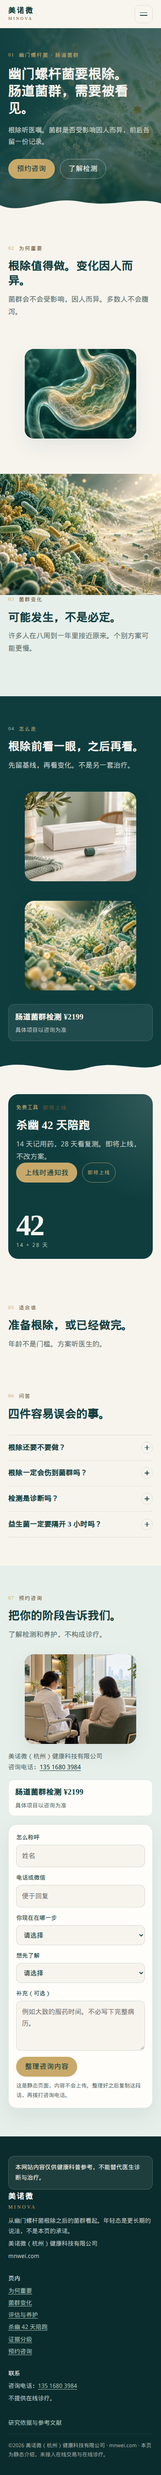
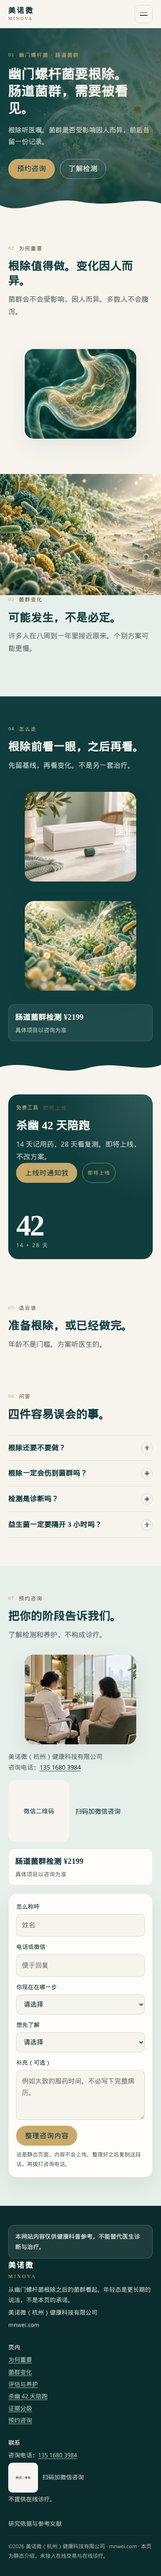
在咨询区和页脚放上微信二维码位。
图片路径固定为 assets/img/wechat-qr.jpg，仓库里先放一张象牙色占位图，打包时会检查它在压缩包里。

diff --git a/assets/css/site.css b/assets/css/site.css
@@ -937,29 +937,38 @@ h3 { font-size: 1.2rem; }
 @media (min-width: 900px) {
   .consult-grid { grid-template-columns: 0.9fr 1.1fr; gap: 2rem; align-items: start; }
 }
-.qr-row {
+.qr-block {
   display: flex;
-  gap: 0.9rem;
   align-items: center;
-  margin-top: 1.1rem;
+  gap: 0.9rem;
+  margin: 1.1rem 0 0;
 }
-.qr {
-  width: 132px;
-  height: 132px;
+.qr-block img {
+  width: 148px;
+  height: 148px;
   flex: none;
   border-radius: 16px;
-  border: 1px dashed rgba(110, 84, 48, 0.55);
-  background:
-    repeating-linear-gradient(90deg, rgba(15, 61, 62, 0.05) 0 1px, transparent 1px 10px),
-    repeating-linear-gradient(0deg, rgba(15, 61, 62, 0.05) 0 1px, transparent 1px 10px),
-    var(--paper);
-  display: grid;
-  place-items: center;
-  text-align: center;
-  padding: 0.5rem;
-  color: var(--gold-ink);
-  font-size: 0.78rem;
-  line-height: 1.45;
+  object-fit: cover;
+  background: var(--ivory);
+}
+.qr-block figcaption {
+  margin: 0;
+  color: var(--ink);
+  font-size: 0.98rem;
+}
+.foot-qr {
+  display: flex;
+  align-items: center;
+  gap: 0.65rem;
+  margin-top: 0.7rem;
+}
+.foot-qr img {
+  width: 72px;
+  height: 72px;
+  flex: none;
+  border-radius: 10px;
+  object-fit: cover;
+  background: var(--ivory);
 }
 .tag-pending {
   display: inline-flex;

diff --git a/index.html b/index.html
@@ -291,6 +291,11 @@
             <span data-contact="legal">美诺微（杭州）健康科技有限公司</span><br>
             <span data-contact="phone">咨询电话：<a href="tel:13516803984">135 1680 3984</a></span>
           </p>
+          <figure class="qr-block">
+            <!-- 上线前用真实二维码覆盖 assets/img/wechat-qr.jpg（480×480） -->
+            <img src="assets/img/wechat-qr.jpg" alt="美诺微微信二维码" width="480" height="480" loading="lazy" decoding="async">
+            <figcaption>扫码加微信咨询</figcaption>
+          </figure>
           <p class="price" data-contact="price"><b>肠道菌群检测 ¥2199</b><span>具体项目以咨询为准</span></p>
         </div>
         <div>
@@ -372,6 +377,10 @@
       <div>
         <p style="color:var(--ivory);font-family:var(--serif)">联系</p>
         <p data-contact="phone">咨询电话：<a href="tel:13516803984">135 1680 3984</a></p>
+        <p class="foot-qr">
+          <img src="assets/img/wechat-qr.jpg" alt="" width="72" height="72" loading="lazy" decoding="async">
+          <span>扫码加微信咨询</span>
+        </p>
         <p>不提供在线诊疗。</p>
       </div>
     </div>

diff --git a/scripts/pack-site.py b/scripts/pack-site.py
@@ -49,8 +49,10 @@ def main() -> int:
 
     with zipfile.ZipFile(OUT) as zf:
         names = zf.namelist()
-    if "index.html" not in names:
-        print("zip missing index.html at root", file=sys.stderr)
+    required = ("index.html", "assets/img/wechat-qr.jpg")
+    missing = [name for name in required if name not in names]
+    if missing:
+        print("zip missing " + ", ".join(missing), file=sys.stderr)
         return 1
     if any(name.startswith("/") or name.startswith("..") for name in names):
         print("unsafe zip path", file=sys.stderr)
